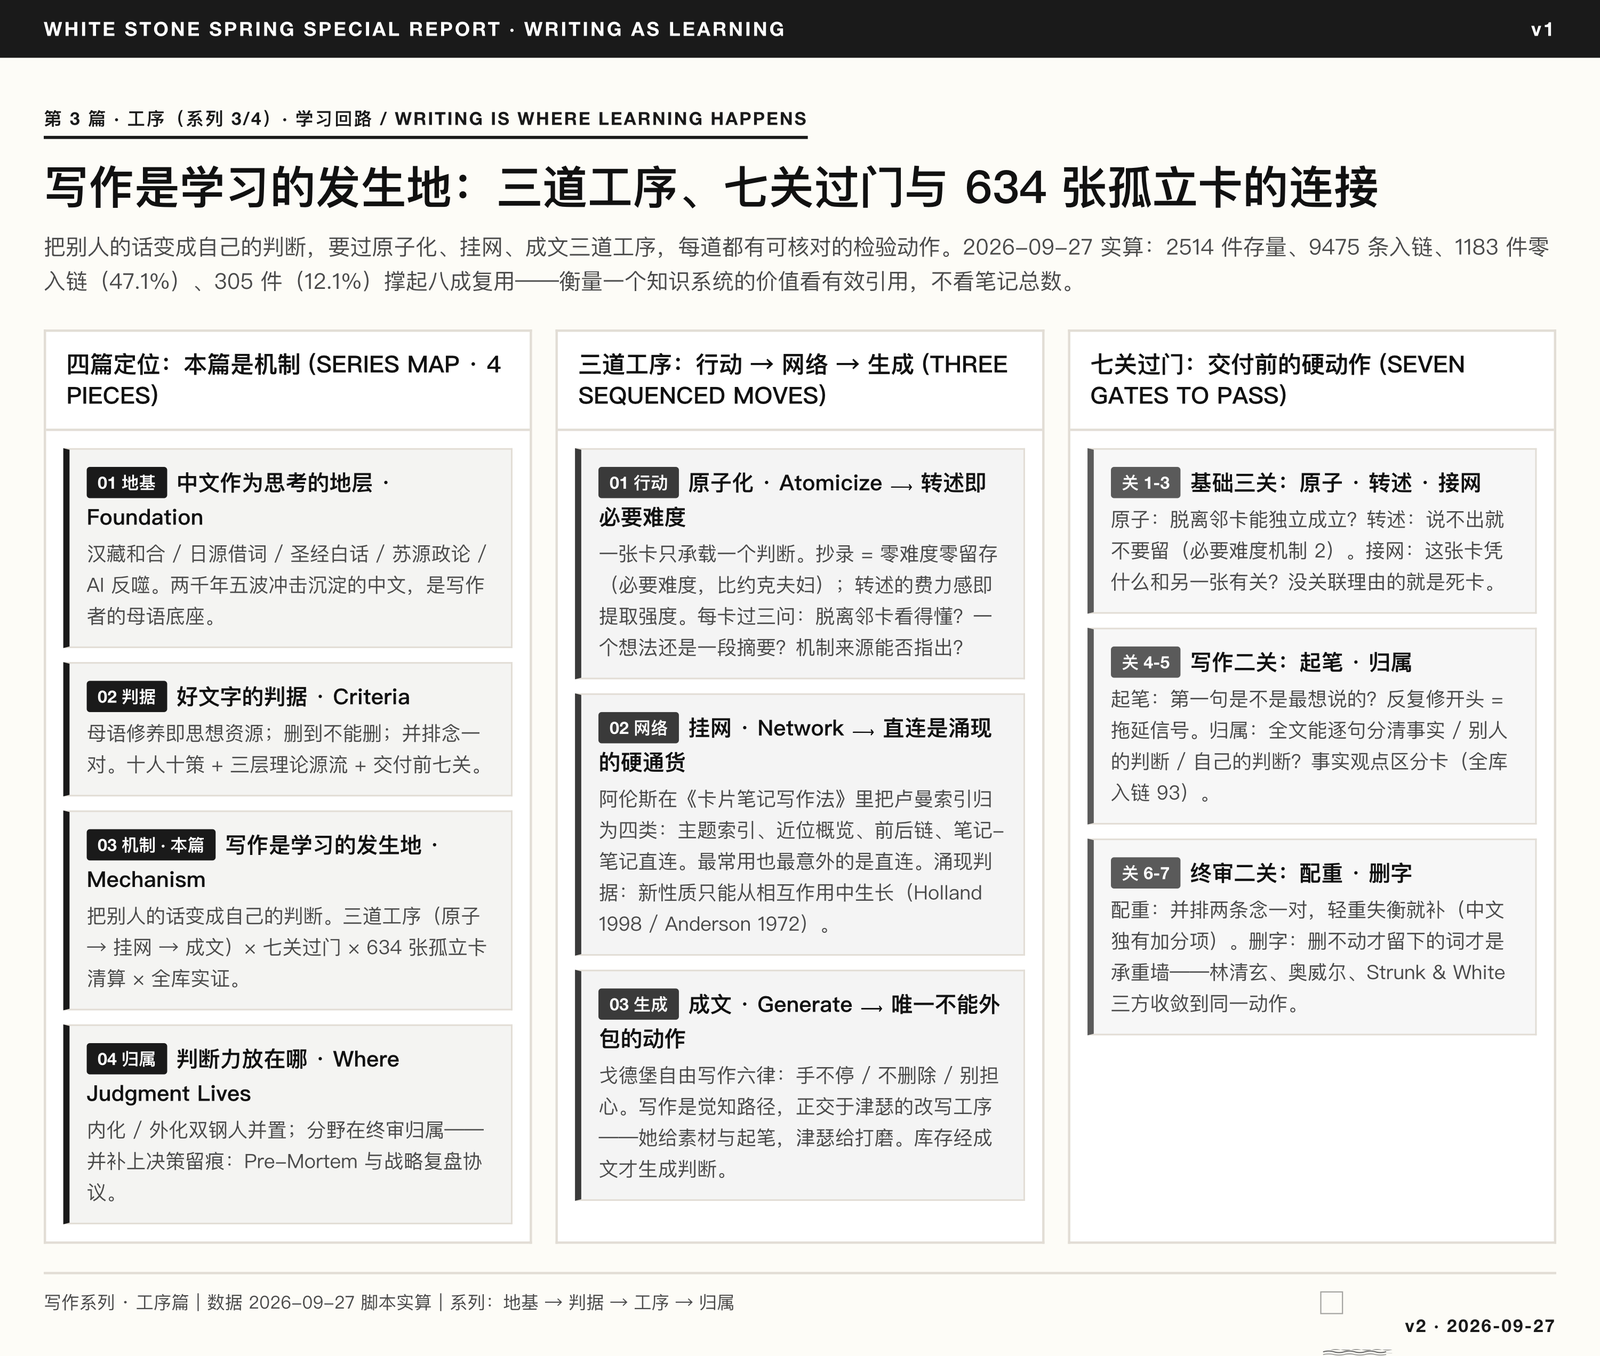
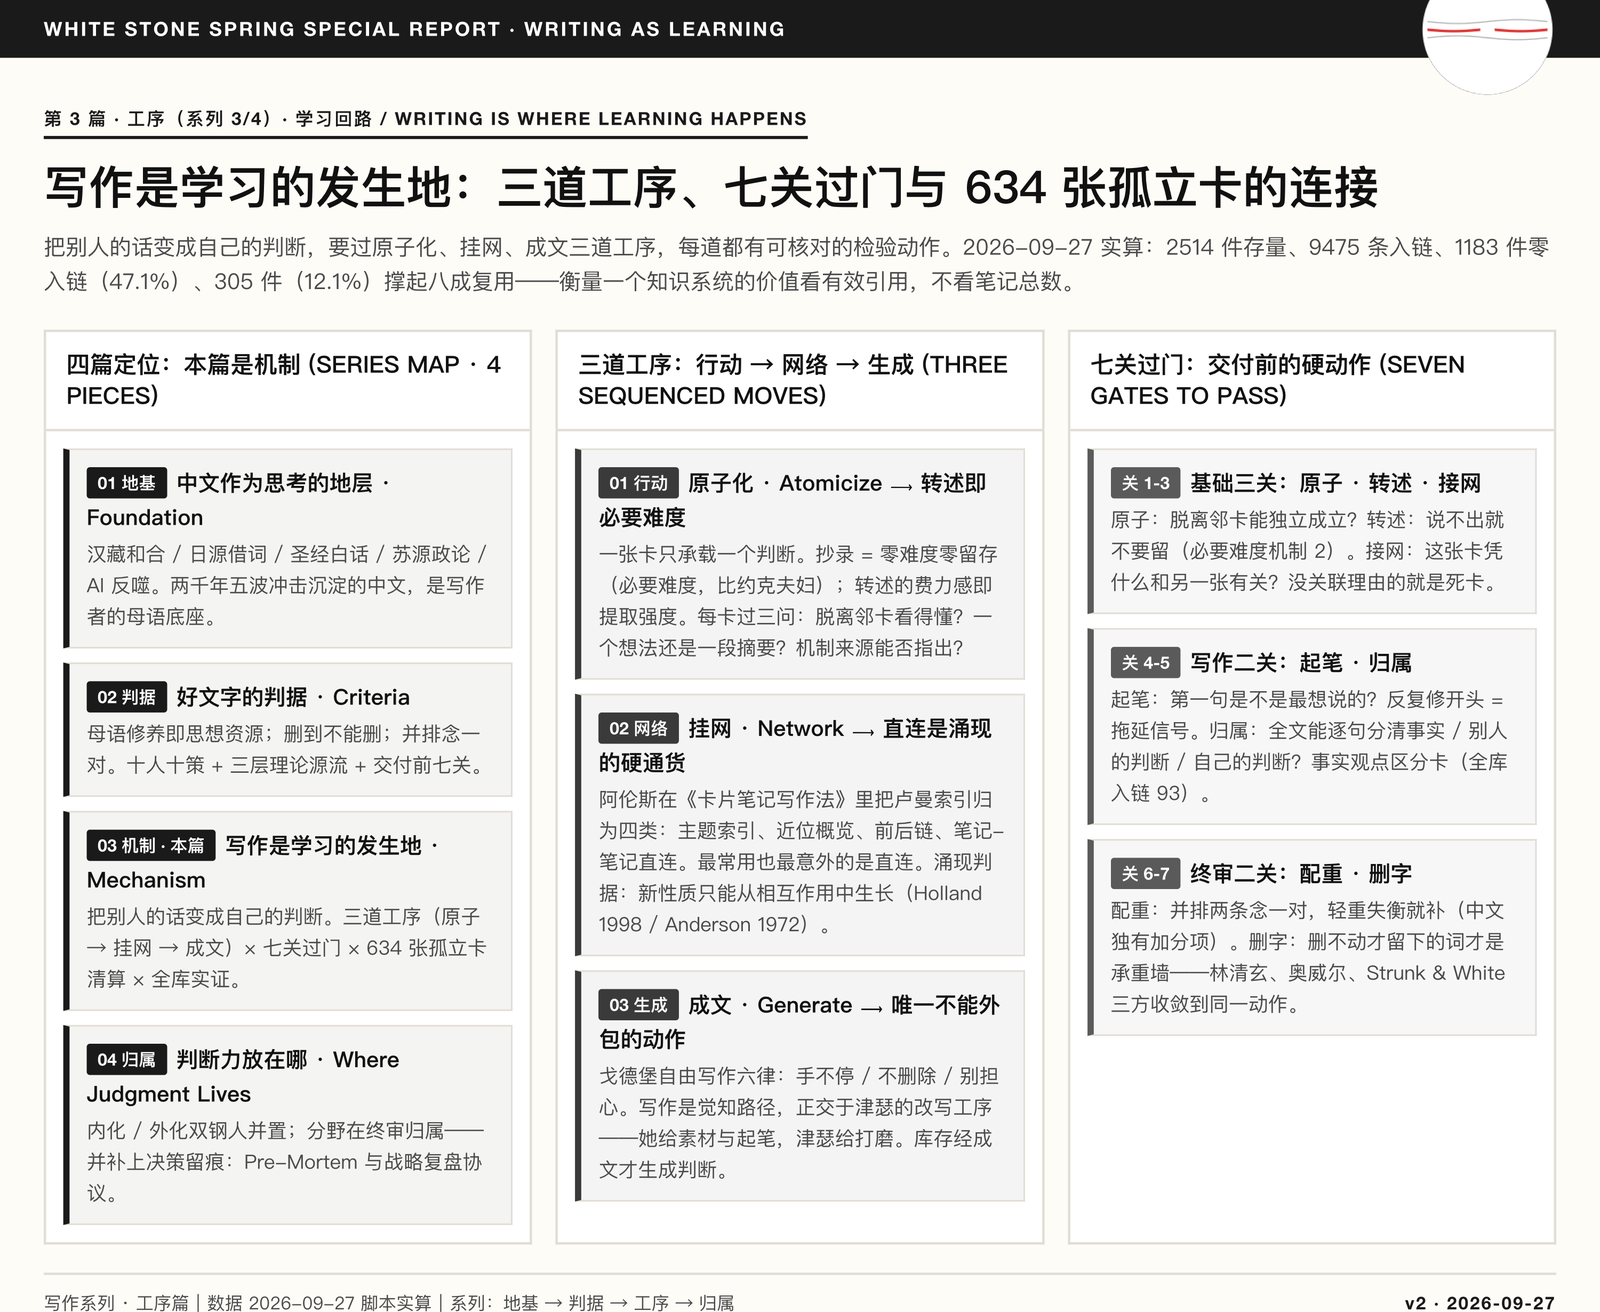
feat(cards): 4 张卡片图换 v31 右上角角押 + cache-bust 重刷
- assets/*_卡片图.png 四张全部重渲：角押从 footer 移到右上角，跨 masthead/head 边界
- build_site.py 重建：HTML 仅 ?v= 戳变化（字标 1790580667 -> 1790582285），无实质内容改动
- 4 张题图 cache-bust 戳已重刷

diff --git a/articles/写作是学习的发生地_意外连接与开发自己的三道工序.html b/articles/写作是学习的发生地_意外连接与开发自己的三道工序.html
@@ -13,7 +13,7 @@
 
 <header class="site-header">
   <div class="site-title">
-    <a href="../index.html"><img src="../assets/brand_白石溪_字标_白底.svg?v=1790580667" alt="白石溪" class="brand-wordmark"></a>
+    <a href="../index.html"><img src="../assets/brand_白石溪_字标_白底.svg?v=1790582285" alt="白石溪" class="brand-wordmark"></a>
   </div>
   <nav class="site-nav">
     <a href="../index.html">導覽</a>
@@ -33,10 +33,10 @@
   </div>
 
   <figure class="card-hero">
-  <a href="../assets/写作是学习的发生地_卡片图.html?v=1790566332" target="_blank" title="点击查看交互卡片">
-    <img src="../assets/写作是学习的发生地_卡片图.png?v=1790566332" alt="写作是学习的发生地：意外连接、知识网络，与开发自己的三道工序 卡片图" loading="lazy">
+  <a href="../assets/写作是学习的发生地_卡片图.html?v=1790584136" target="_blank" title="点击查看交互卡片">
+    <img src="../assets/写作是学习的发生地_卡片图.png?v=1790584136" alt="写作是学习的发生地：意外连接、知识网络，与开发自己的三道工序 卡片图" loading="lazy">
   </a>
-  <figcaption>卡片图 · <a href="../assets/写作是学习的发生地_卡片图.html?v=1790566332" target="_blank">点击查看交互版</a></figcaption>
+  <figcaption>卡片图 · <a href="../assets/写作是学习的发生地_卡片图.html?v=1790584136" target="_blank">点击查看交互版</a></figcaption>
 </figure>
   <div class="article-body">
 <blockquote>

diff --git a/articles/翻译如何重塑中文_两千年来五波外来语与现代写作真相.html b/articles/翻译如何重塑中文_两千年来五波外来语与现代写作真相.html
@@ -13,7 +13,7 @@
 
 <header class="site-header">
   <div class="site-title">
-    <a href="../index.html"><img src="../assets/brand_白石溪_字标_白底.svg?v=1790580667" alt="白石溪" class="brand-wordmark"></a>
+    <a href="../index.html"><img src="../assets/brand_白石溪_字标_白底.svg?v=1790582285" alt="白石溪" class="brand-wordmark"></a>
   </div>
   <nav class="site-nav">
     <a href="../index.html">導覽</a>
@@ -33,10 +33,10 @@
   </div>
 
   <figure class="card-hero">
-  <a href="../assets/翻译如何重塑中文_卡片图.html?v=1790566331" target="_blank" title="点击查看交互卡片">
-    <img src="../assets/翻译如何重塑中文_卡片图.png?v=1790566331" alt="翻译如何重塑中文：两千年来五波外来语浪潮，与现代写作的文体真相 卡片图" loading="lazy">
+  <a href="../assets/翻译如何重塑中文_卡片图.html?v=1790584135" target="_blank" title="点击查看交互卡片">
+    <img src="../assets/翻译如何重塑中文_卡片图.png?v=1790584135" alt="翻译如何重塑中文：两千年来五波外来语浪潮，与现代写作的文体真相 卡片图" loading="lazy">
   </a>
-  <figcaption>卡片图 · <a href="../assets/翻译如何重塑中文_卡片图.html?v=1790566331" target="_blank">点击查看交互版</a></figcaption>
+  <figcaption>卡片图 · <a href="../assets/翻译如何重塑中文_卡片图.html?v=1790584135" target="_blank">点击查看交互版</a></figcaption>
 </figure>
   <div class="article-body">
 <hr />

diff --git a/articles/什么是好的中文_十人十策与可执行规范.html b/articles/什么是好的中文_十人十策与可执行规范.html
@@ -13,7 +13,7 @@
 
 <header class="site-header">
   <div class="site-title">
-    <a href="../index.html"><img src="../assets/brand_白石溪_字标_白底.svg?v=1790580667" alt="白石溪" class="brand-wordmark"></a>
+    <a href="../index.html"><img src="../assets/brand_白石溪_字标_白底.svg?v=1790582285" alt="白石溪" class="brand-wordmark"></a>
   </div>
   <nav class="site-nav">
     <a href="../index.html">導覽</a>
@@ -33,10 +33,10 @@
   </div>
 
   <figure class="card-hero">
-  <a href="../assets/什么是好的中文_卡片图.html?v=1790566331" target="_blank" title="点击查看交互卡片">
-    <img src="../assets/什么是好的中文_卡片图.png?v=1790566331" alt="什么是好的中文：十位写作者的十条路，与一套可执行的规范 卡片图" loading="lazy">
+  <a href="../assets/什么是好的中文_卡片图.html?v=1790584135" target="_blank" title="点击查看交互卡片">
+    <img src="../assets/什么是好的中文_卡片图.png?v=1790584135" alt="什么是好的中文：十位写作者的十条路，与一套可执行的规范 卡片图" loading="lazy">
   </a>
-  <figcaption>卡片图 · <a href="../assets/什么是好的中文_卡片图.html?v=1790566331" target="_blank">点击查看交互版</a></figcaption>
+  <figcaption>卡片图 · <a href="../assets/什么是好的中文_卡片图.html?v=1790584135" target="_blank">点击查看交互版</a></figcaption>
 </figure>
   <div class="article-body">
 <hr />

diff --git a/articles/AI认知判断力内化与外部化双钢人.html b/articles/AI认知判断力内化与外部化双钢人.html
@@ -13,7 +13,7 @@
 
 <header class="site-header">
   <div class="site-title">
-    <a href="../index.html"><img src="../assets/brand_白石溪_字标_白底.svg?v=1790580667" alt="白石溪" class="brand-wordmark"></a>
+    <a href="../index.html"><img src="../assets/brand_白石溪_字标_白底.svg?v=1790582285" alt="白石溪" class="brand-wordmark"></a>
   </div>
   <nav class="site-nav">
     <a href="../index.html">導覽</a>
@@ -33,10 +33,10 @@
   </div>
 
   <figure class="card-hero">
-  <a href="../assets/AI认知判断力_卡片图.html?v=1790566333" target="_blank" title="点击查看交互卡片">
-    <img src="../assets/AI认知判断力_卡片图.png?v=1790566333" alt="AI 时代最大的认知分歧：把判断力焊进脑子，还是写进文件？ 卡片图" loading="lazy">
+  <a href="../assets/AI认知判断力_卡片图.html?v=1790584136" target="_blank" title="点击查看交互卡片">
+    <img src="../assets/AI认知判断力_卡片图.png?v=1790584136" alt="AI 时代最大的认知分歧：把判断力焊进脑子，还是写进文件？ 卡片图" loading="lazy">
   </a>
-  <figcaption>卡片图 · <a href="../assets/AI认知判断力_卡片图.html?v=1790566333" target="_blank">点击查看交互版</a></figcaption>
+  <figcaption>卡片图 · <a href="../assets/AI认知判断力_卡片图.html?v=1790584136" target="_blank">点击查看交互版</a></figcaption>
 </figure>
   <div class="article-body">
 <hr />

diff --git a/README.html b/README.html
@@ -13,7 +13,7 @@
 
 <header class="site-header">
   <div class="site-title">
-    <a href="index.html"><img src="assets/brand_白石溪_字标_白底.svg?v=1790580667" alt="白石溪" class="brand-wordmark"></a>
+    <a href="index.html"><img src="assets/brand_白石溪_字标_白底.svg?v=1790582285" alt="白石溪" class="brand-wordmark"></a>
   </div>
   <nav class="site-nav">
     <a href="index.html"><span class="site-tr">導覽</span><span class="site-si">导览</span></a>

diff --git a/index.html b/index.html
@@ -11,7 +11,7 @@
 
 <header class="site-header">
   <div class="site-title">
-    <a href="index.html"><img src="assets/brand_白石溪_字标_白底.svg?v=1790580667" alt="白石溪" class="brand-wordmark"></a>
+    <a href="index.html"><img src="assets/brand_白石溪_字标_白底.svg?v=1790582285" alt="白石溪" class="brand-wordmark"></a>
   </div>
   <nav class="site-nav">
     <a href="index.html"><span class="site-tr">導覽</span><span class="site-si">导览</span></a>
